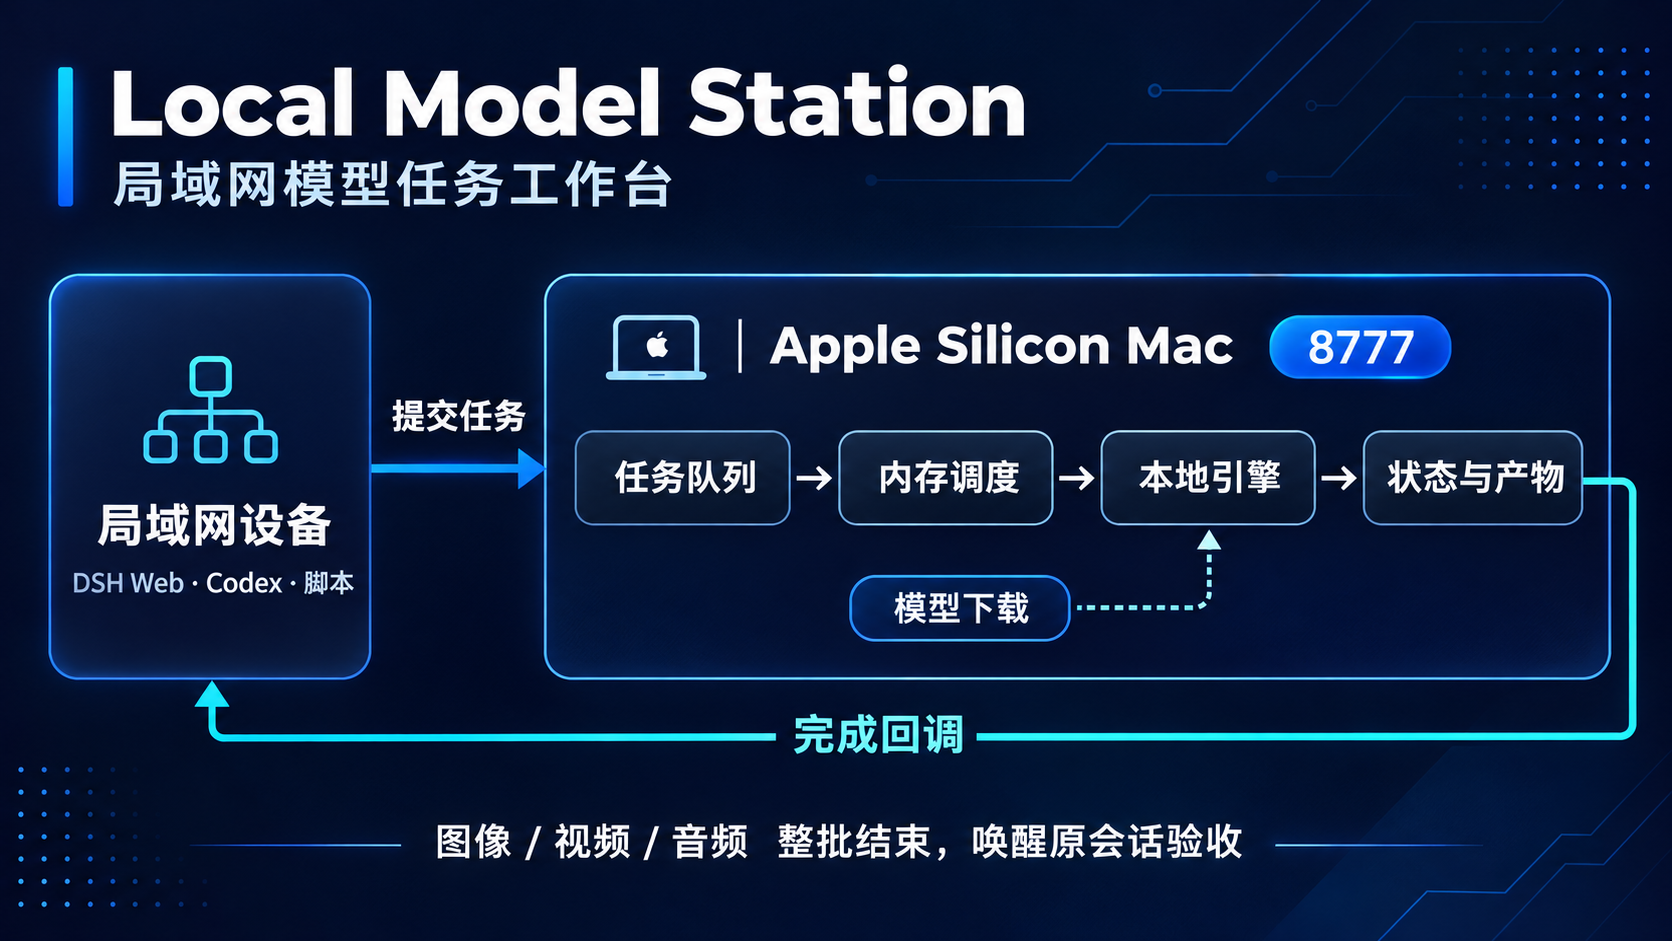
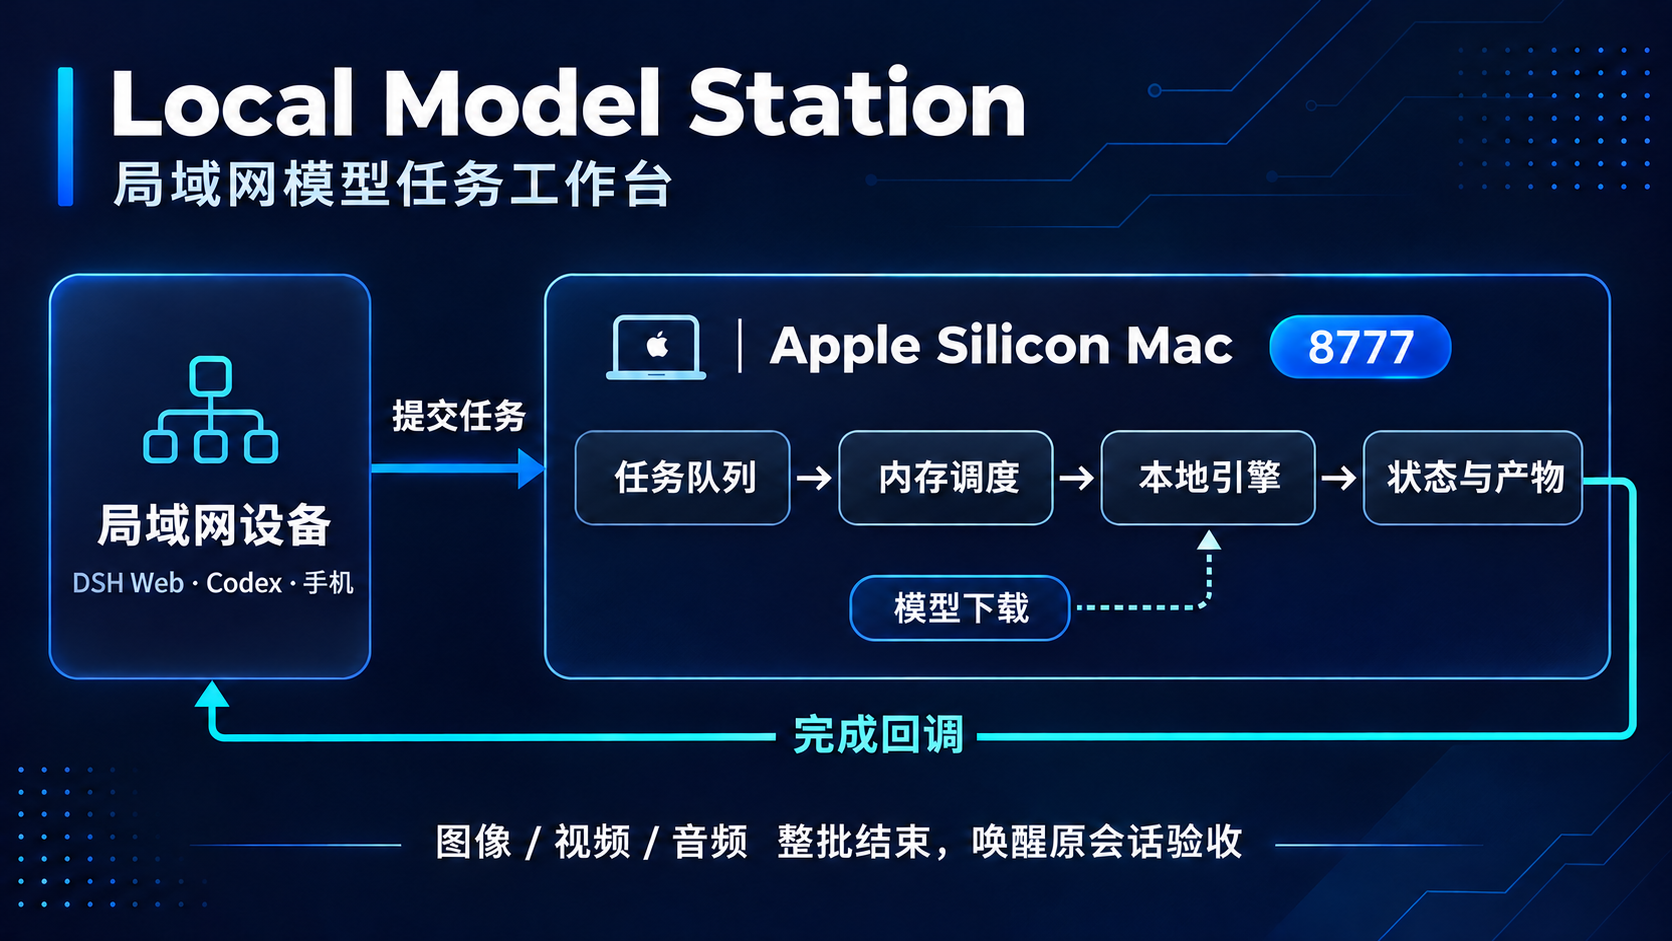
Show phone access in the project hero

diff --git a/README.md b/README.md
@@ -2,7 +2,7 @@
 
 简体中文 · [English](README.en.md)
 
-![Local Model Station：从局域网提交任务，经内存调度与本地执行，完成后回调原会话](docs/images/local-model-station-hero.png)
+![Local Model Station：手机等局域网设备提交任务，经内存调度与本地执行，完成后回调原会话](docs/images/local-model-station-hero.png)
 
 面向 Apple Silicon 的本地模型工作台，提供图像／视频／音频任务队列统一调度（按内存余量）、批次任务回调、模型下载和 Splash 引擎看板，默认端口为 **8777**。
 
@@ -94,7 +94,7 @@ python3 batch_wait.py --url http://192.168.1.50:8777 "$TASK_ID_1" "$TASK_ID_2" \
 
 ## 模型任务队列与内存调度
 
-- **一台 Mac 服务多台设备。** 同一局域网内的桌面应用、脚本和 Agent 可以通过 HTTP 提交图像、视频、语音任务，并轮询任务状态、读取日志和下载产物。模型与权重安装在执行端。
+- **一台 Mac 服务多台设备。** 同一局域网内，手机和电脑可用浏览器打开控制台，提交图像、视频、语音任务，查看进度和下载产物。桌面应用、脚本和 Agent 也可通过 HTTP API 调用。模型与权重安装在执行端。
 - **队列持久化。** 任务输入、状态和执行配置会保存在服务端。控制台与 API 使用同一队列，支持调整顺序、暂停后续调度、取消和重试。
 - **按可用内存调度。** 每个模型 profile 配置 `available_gib_required`。单个媒体 worker 按队列顺序挑选满足当前系统可用内存门槛的任务。内存不足的任务继续等待，后续符合条件的任务可以先跑。等待超时会标记失败。执行时继续监控可用内存和交换空间增长，触发阈值时终止任务。配置门槛是调度依据，实际峰值取决于模型和输入。
 

diff --git a/README.en.md b/README.en.md
@@ -2,7 +2,7 @@
 
 [简体中文](README.md) · English
 
-![Local Model Station workflow: LAN clients submit jobs, a Mac schedules and runs them, and a completion callback reaches the original session](docs/images/local-model-station-hero.png)
+![Local Model Station workflow: phones and other LAN clients submit jobs, a Mac schedules and runs them, and a completion callback reaches the original session](docs/images/local-model-station-hero.png)
 
 Local Model Station turns an Apple Silicon Mac into a LAN job server for image, video, and audio generation. It schedules durable tasks according to available memory, supports batch completion callbacks, manages model downloads, and provides a Splash dashboard. The default port is **8777**.
 
@@ -10,7 +10,7 @@ Local Model Station turns an Apple Silicon Mac into a LAN job server for image, 
 
 ## What it does
 
-- Submit and monitor tasks from another device on your LAN, through the web console, HTTP API, or CLI.
+- Open the web console from a phone or computer on the same LAN to submit jobs, check progress, and download outputs. The HTTP API and CLI are also available.
 - Run one media job at a time. Each model profile declares a minimum amount of available system memory. Jobs that cannot fit stay queued while eligible jobs can run.
 - Pause dispatch, reorder queued jobs, cancel or retry tasks, review logs, and download artifacts.
 - Search and download Hugging Face models, resume partial downloads, and switch between HF Mirror and the official Hugging Face host.
